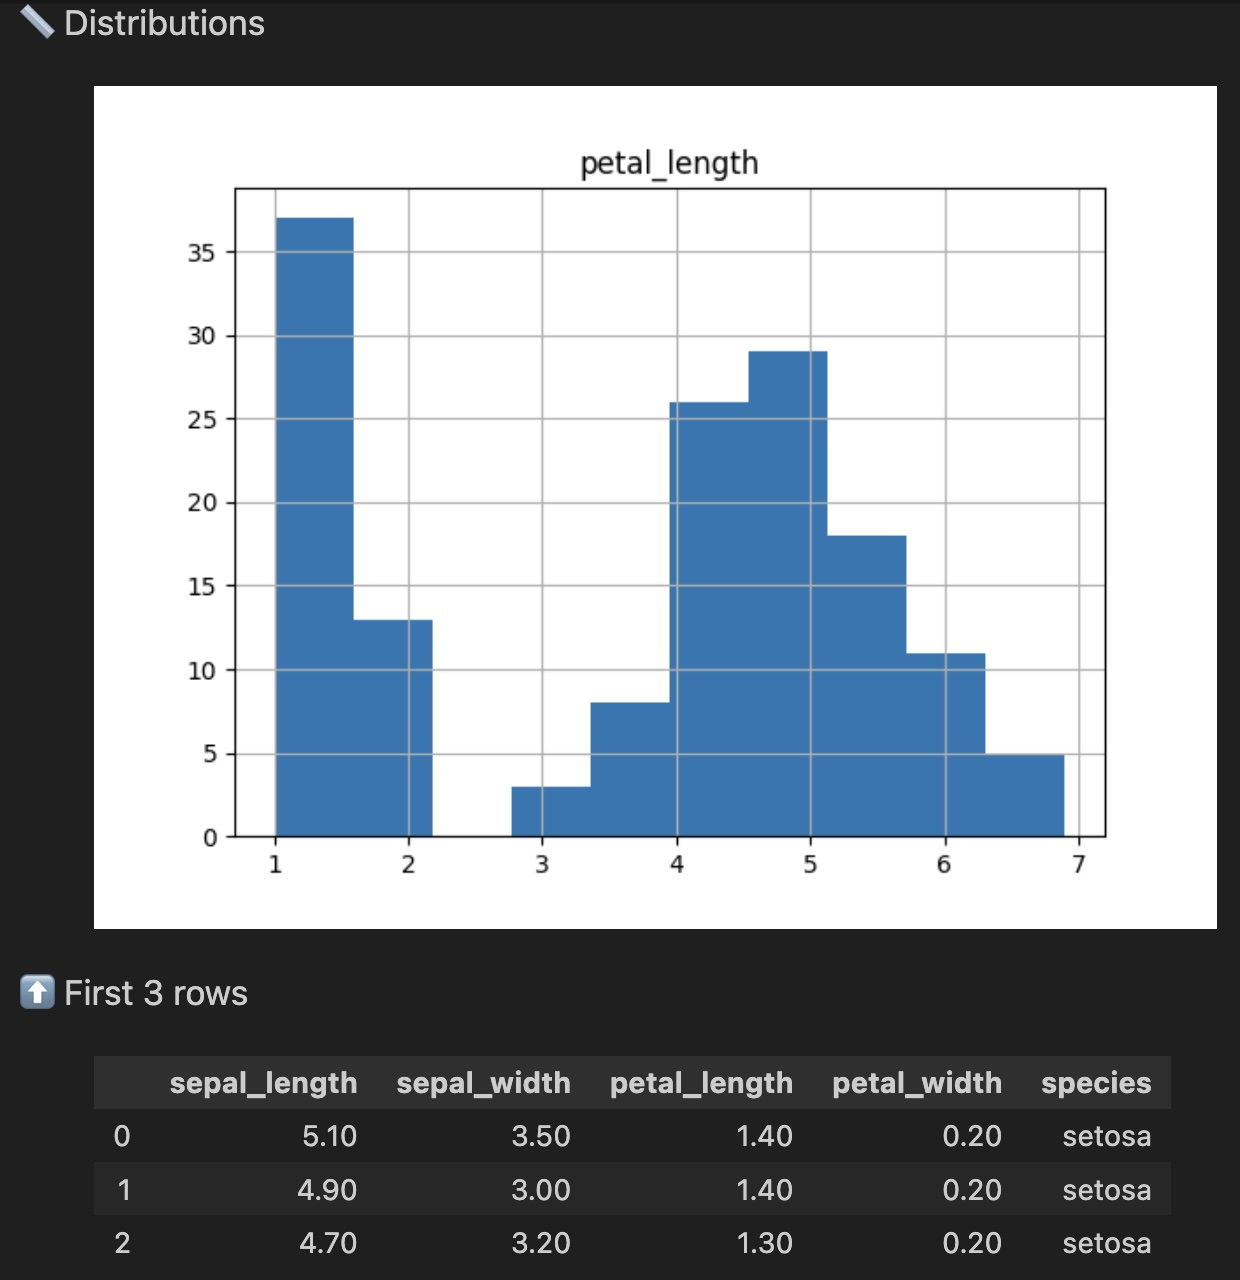
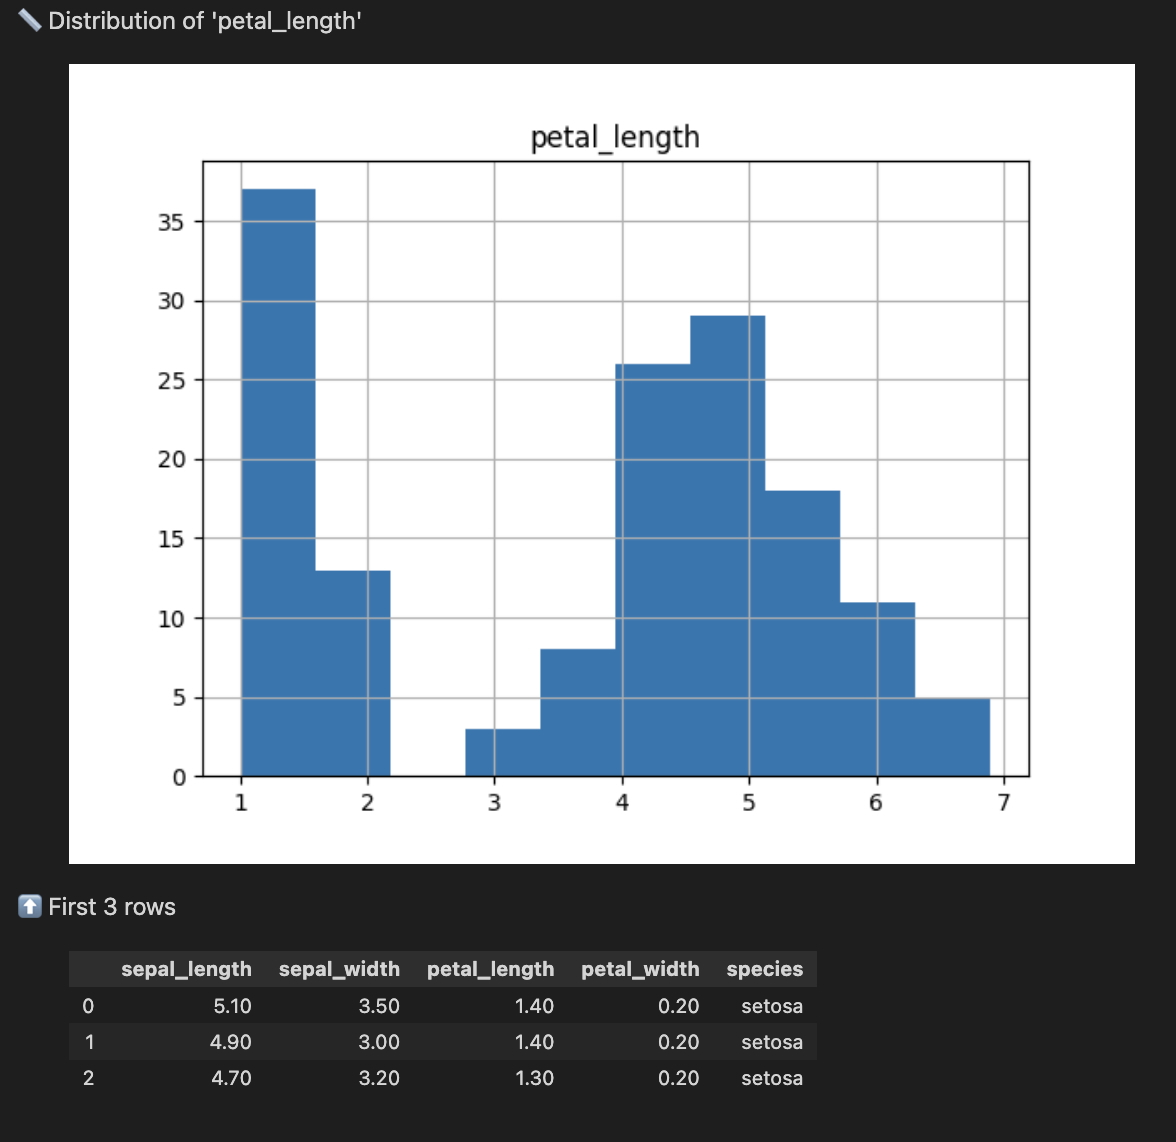
Fix hist title for kwarg column case, as in README sample

diff --git a/pandas_checks/DataFrameChecks.py b/pandas_checks/DataFrameChecks.py
@@ -1209,6 +1209,9 @@ class DataFrameChecks:
                 check_name = f"📏 Distribution of '{subset[0]}'"
             elif isinstance(subset, str):
                 check_name = f"📏 Distribution of '{subset}'"
+            elif "column" in kwargs:
+                col_name = kwargs["column"]
+                check_name = f"📏 Distribution of '{col_name}'"
             else:
                 check_name = "📏 Distributions"
         # Only display if in IPython/Jupyter, or we'd just print the title